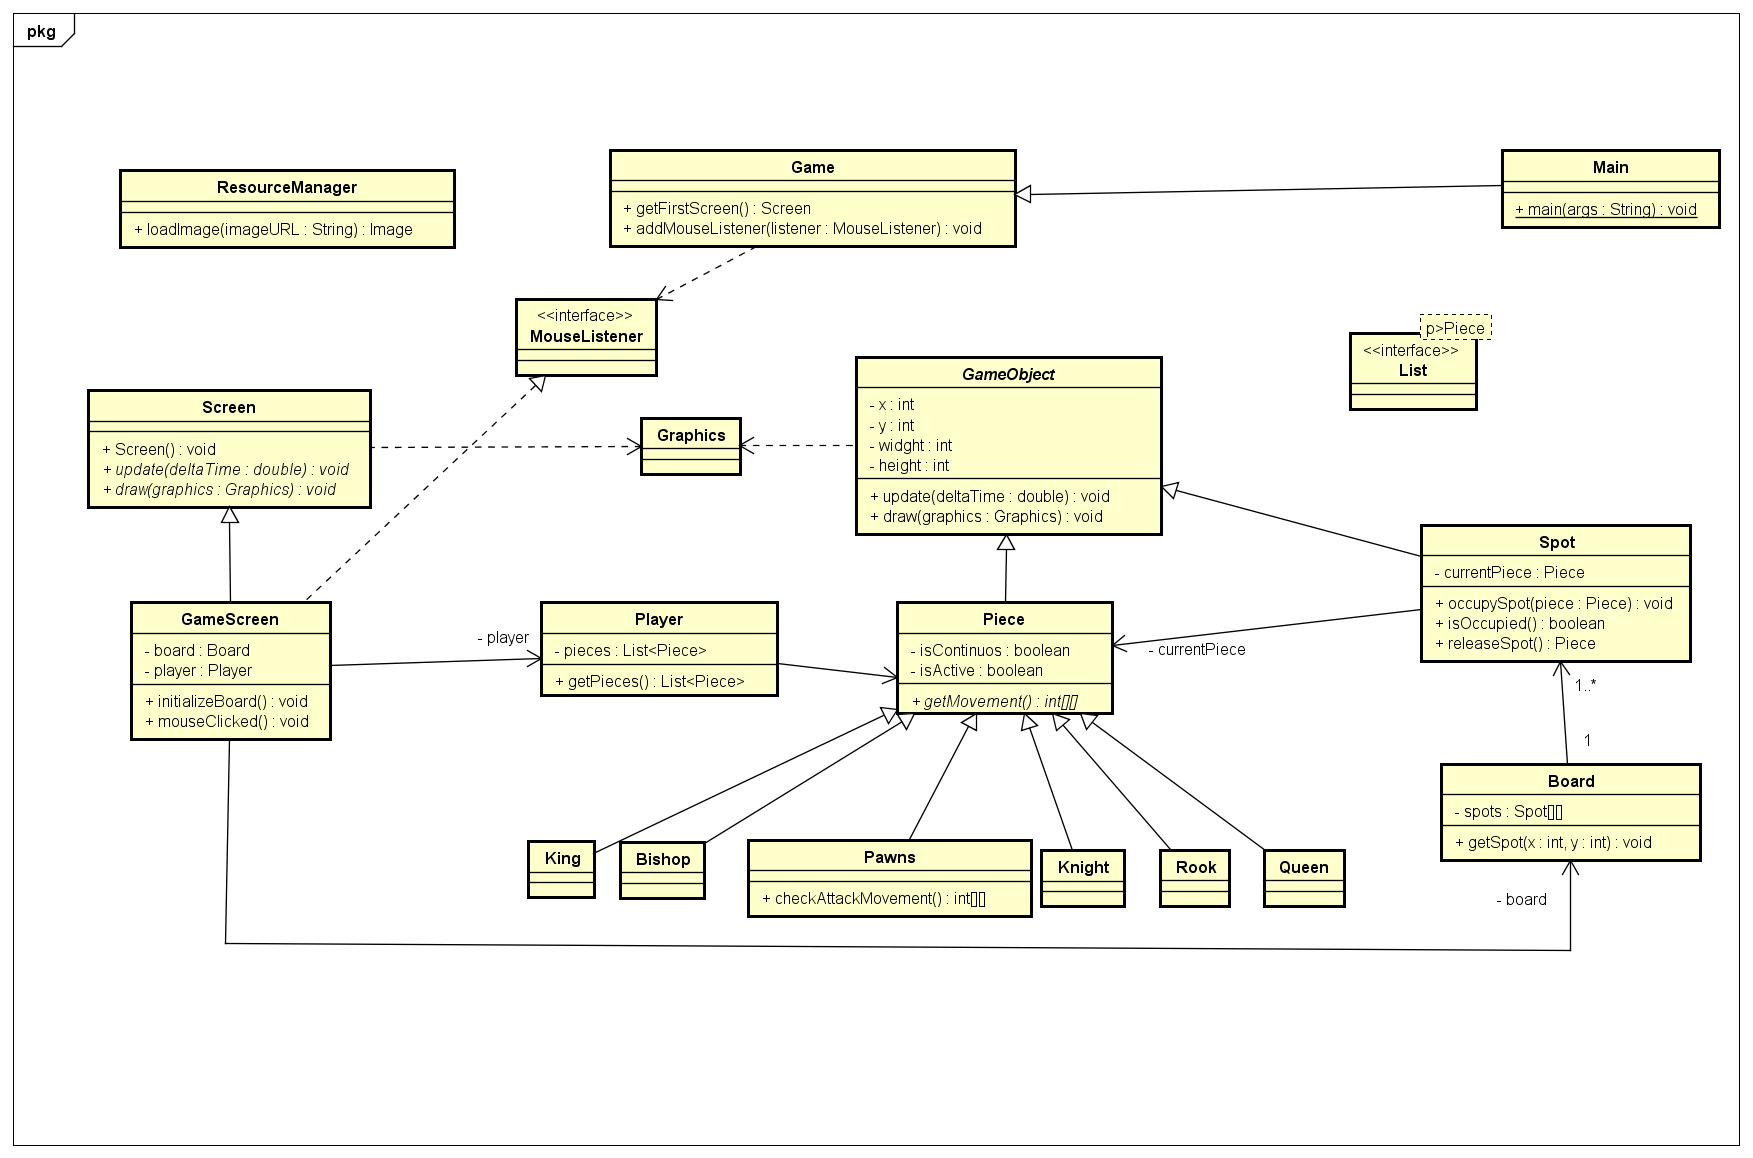
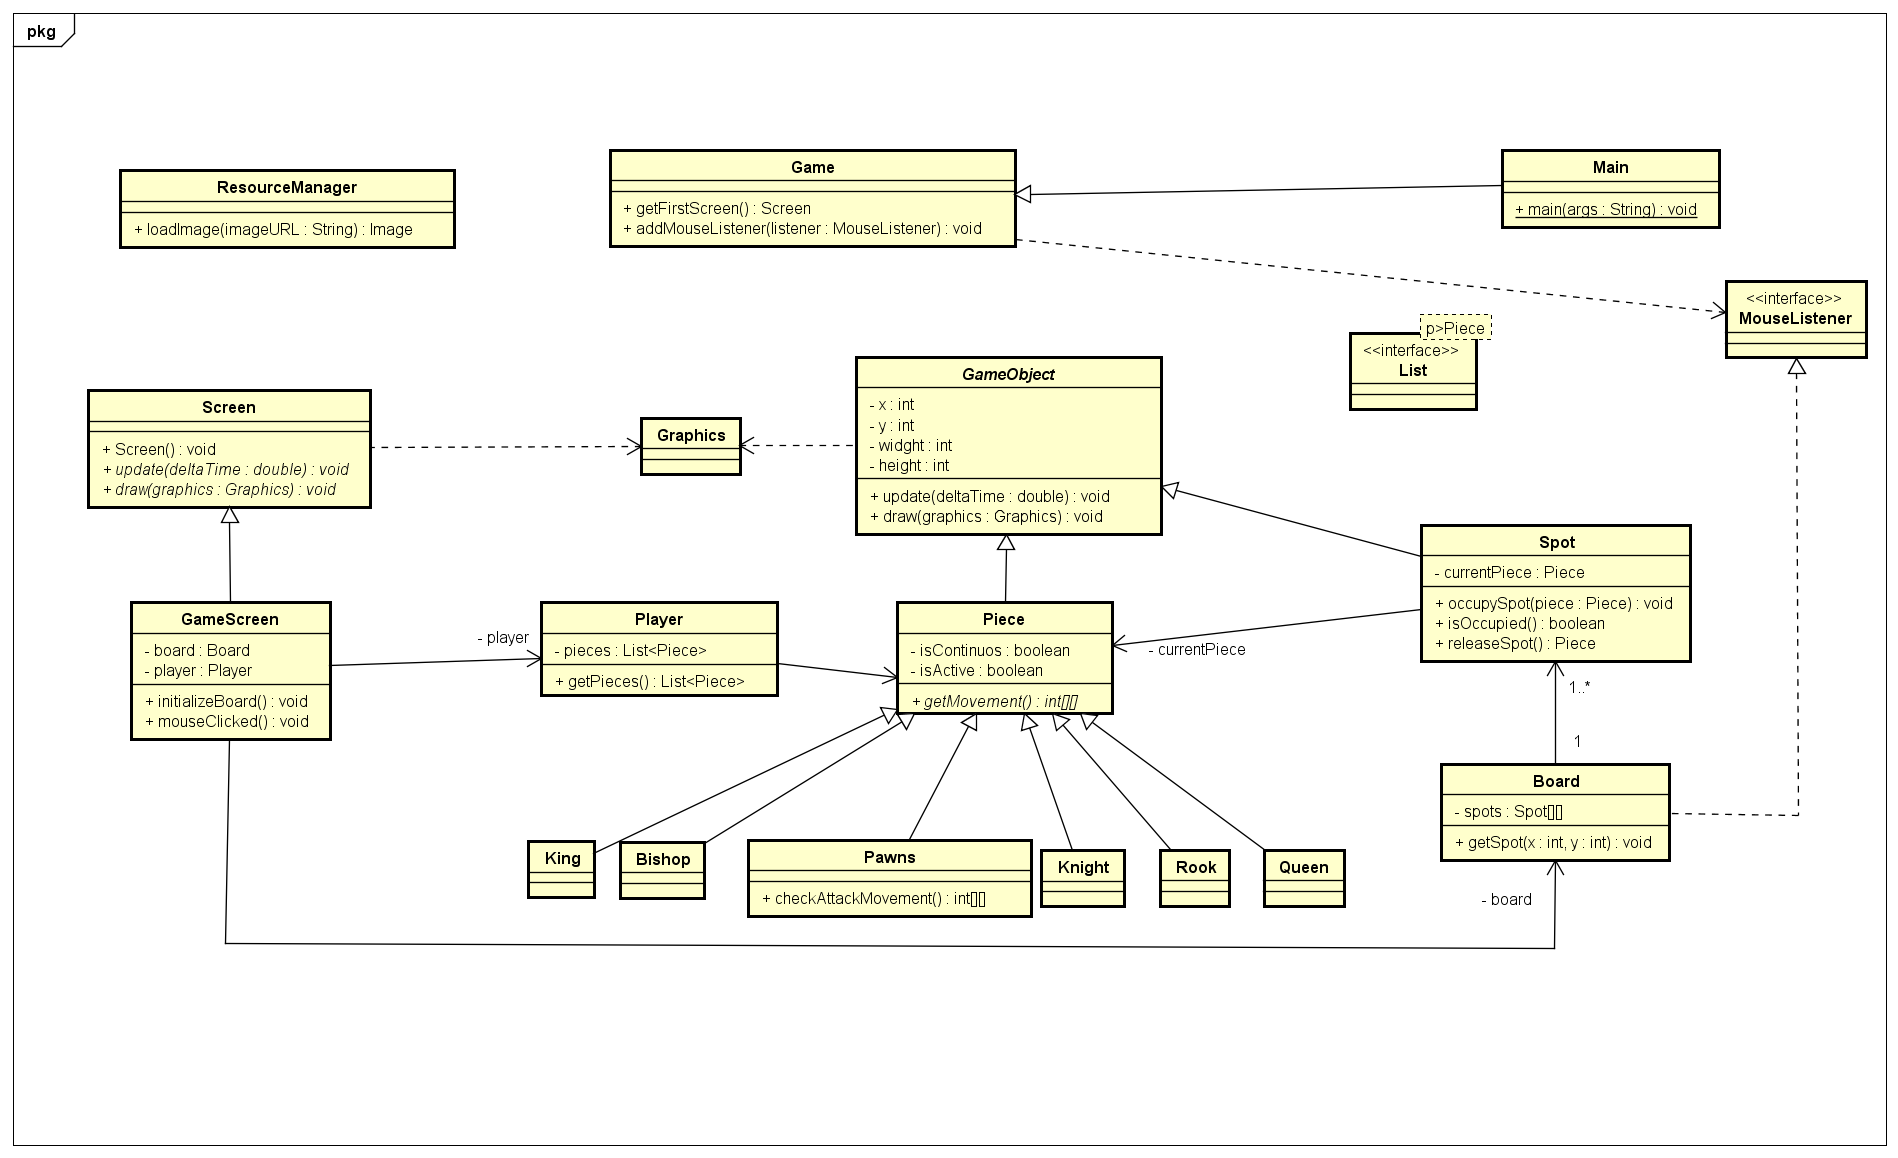
Corrigindo estrutura de dados do Spot e adicionando lisence.txt

diff --git a/Code/Chess/src/com/uff/chess/screens/GameScreen.java b/Code/Chess/src/com/uff/chess/screens/GameScreen.java
@@ -5,93 +5,33 @@
  */
 package com.uff.chess.screens;
 
-import com.uff.chess.gameobjects.Background;
-import com.uff.chess.gameobjects.Spot;
+import com.uff.chess.gameobjects.Board;
 import com.uff.chess.utils.ResourceManager;
 import com.vpontes.gameframework.core.Game;
 import com.vpontes.gameframework.core.Screen;
-import com.vpontes.gameframework.math.OverlapTester;
 import com.vpontes.gameframework.math.Vector2;
 import java.awt.Graphics;
-import java.awt.event.MouseEvent;
-import java.awt.event.MouseListener;
-import java.util.ArrayList;
-import java.util.List;
 
 /**
  *
  * @author Vynicius Pontes
  */
-public class GameScreen extends Screen implements MouseListener{
+public class GameScreen extends Screen {
 
-    private final Background background;
-    private List<Spot> spots;
-    private final String[] blocksImages = {
-        ResourceManager.WHITE_SPOT,
-        ResourceManager.BLACK_SPOT
-    };
+    private final Board board;
     
     public GameScreen(Game game) {
         super(game);
-        background = new Background(new Vector2(0,0), 800, 600, ResourceManager.BACKGROUND);
-        game.addMouseListener(this);
-        setupSpots();
+        board = new Board(new Vector2(0,0), 800, 600, ResourceManager.BACKGROUND);
+        game.addMouseListener(board);
     }
     
-    /**
-     * Organiza os blocos em suas posicoes iniciais
-     */
-    private void setupSpots(){
-        Integer aux = 0;
-        Vector2 startPosition = new Vector2(game.getScreenWidth()/2 - (60*8)/2,game.getScreenHeight()/2 - (60*8)/2);
-        String[] letters = {"A", "B", "C", "D", "E", "F", "G", "H"};
-        spots = new ArrayList<>();
-        for (int y = 0; y < 8; y++) {
-            for (int x = 0; x < 8; x++) {
-                Spot newSpot = new Spot(new Vector2((x * 60) + startPosition.getX(), (y * 60) + startPosition.getY()), 60, 60, 
-                        blocksImages[(x + aux)%2], letters[y] + ""+(x + 1));
-                spots.add(newSpot);
-            }
-            if(aux == 1)
-                aux = 0;
-            else
-                aux = 1;
-        }
-    }
-
     @Override
     public void update(double deltaTime) {
     }
 
     @Override
     public void draw(Graphics graphics) {
-        background.draw(graphics);
-        spots.forEach((spot) -> {
-            spot.draw(graphics);
-        });
+        board.draw(graphics);
     }
-
-    @Override
-    public void mouseClicked(MouseEvent e) {
-        
-        if(e.getButton() != 1)
-            return;
-        Vector2 clickPosition = new Vector2(e.getPoint().getX(), e.getPoint().getY());
-        spots.forEach((spot) -> {
-            if(OverlapTester.pointInRectangle(spot.getRect(),clickPosition))
-                spot.mouseClicked();
-        });
-    }
-
-    @Override
-    public void mousePressed(MouseEvent e) {}
-
-    @Override
-    public void mouseReleased(MouseEvent e) {}
-
-    @Override
-    public void mouseEntered(MouseEvent e) {}
-
-    @Override
-    public void mouseExited(MouseEvent e) {}
 }

diff --git a/Code/Chess/src/com/uff/chess/gameobjects/Board.java b/Code/Chess/src/com/uff/chess/gameobjects/Board.java
@@ -1,0 +1,83 @@
+package com.uff.chess.gameobjects;
+
+import com.uff.chess.utils.ResourceManager;
+import com.vpontes.gameframework.math.OverlapTester;
+import com.vpontes.gameframework.math.Vector2;
+import java.awt.Graphics;
+import java.awt.event.MouseEvent;
+import java.awt.event.MouseListener;
+
+/**
+ *
+ * @author Vynicius Pontes
+ */
+public class Board extends GameObject implements MouseListener {
+
+    private final Spot[][] spots= new Spot[8][8];
+    private final String[] blocksImages = {
+        ResourceManager.WHITE_SPOT,
+        ResourceManager.BLACK_SPOT
+    };
+    
+    public Board(Vector2 position, int widght, int height, String imagePath) {
+        super(position, widght, height, imagePath);
+        setupSpots();
+    }
+    
+     /**
+     * Organiza os blocos em suas posicoes iniciais
+     */
+    private void setupSpots(){
+        Integer aux = 0;
+        Vector2 startPosition = new Vector2(this.getWidght()/2 - (60*8)/2,this.getHeight()/2 - (60*8)/2);
+        String[] letters = {"A", "B", "C", "D", "E", "F", "G", "H"};
+        for (int y = 0; y < 8; y++) {
+            for (int x = 0; x < 8; x++) {
+                Spot newSpot = new Spot(new Vector2((x * 60) + startPosition.getX(), (y * 60) + startPosition.getY()), 60, 60, 
+                        blocksImages[(x + aux)%2], letters[y] + ""+(x + 1));
+                spots[y][x] = newSpot;
+            }
+            if(aux == 1)
+                aux = 0;
+            else
+                aux = 1;
+        }
+    }
+
+
+    @Override
+    public void draw(Graphics g){
+        super.draw(g);
+        for (Spot[] spotY : spots) {
+            for (Spot spotX : spotY) {
+                spotX.draw(g);
+            }
+        }
+    }
+    
+    @Override
+    public void mouseClicked(MouseEvent e) {}
+
+    @Override
+    public void mousePressed(MouseEvent e) {
+        if(e.getButton() != 1)
+            return;
+        
+        Vector2 clickPosition = new Vector2(e.getPoint().getX(), e.getPoint().getY());
+        for (Spot[] spotY : spots) {
+            for (Spot spotX : spotY) {
+                if(OverlapTester.pointInRectangle(spotX.getRect(),clickPosition))
+                    spotX.mouseClicked();
+            }
+        }
+    }
+
+    @Override
+    public void mouseReleased(MouseEvent e) {}
+
+    @Override
+    public void mouseEntered(MouseEvent e) {}
+
+    @Override
+    public void mouseExited(MouseEvent e) {}
+}

diff --git a/Code/Chess/src/com/uff/chess/gameobjects/Spot.java b/Code/Chess/src/com/uff/chess/gameobjects/Spot.java
@@ -1,8 +1,3 @@
-/*
- * To change this license header, choose License Headers in Project Properties.
- * To change this template file, choose Tools | Templates
- * and open the template in the editor.
- */
 package com.uff.chess.gameobjects;
 
 import com.vpontes.gameframework.math.Rectangle;

diff --git a/Code/Chess/src/com/uff/chess/gameobjects/Dynamic.java b/Code/Chess/src/com/uff/chess/gameobjects/Dynamic.java
@@ -1,8 +1,3 @@
-/*
- * To change this license header, choose License Headers in Project Properties.
- * To change this template file, choose Tools | Templates
- * and open the template in the editor.
- */
 package com.uff.chess.gameobjects;
 
 /**
